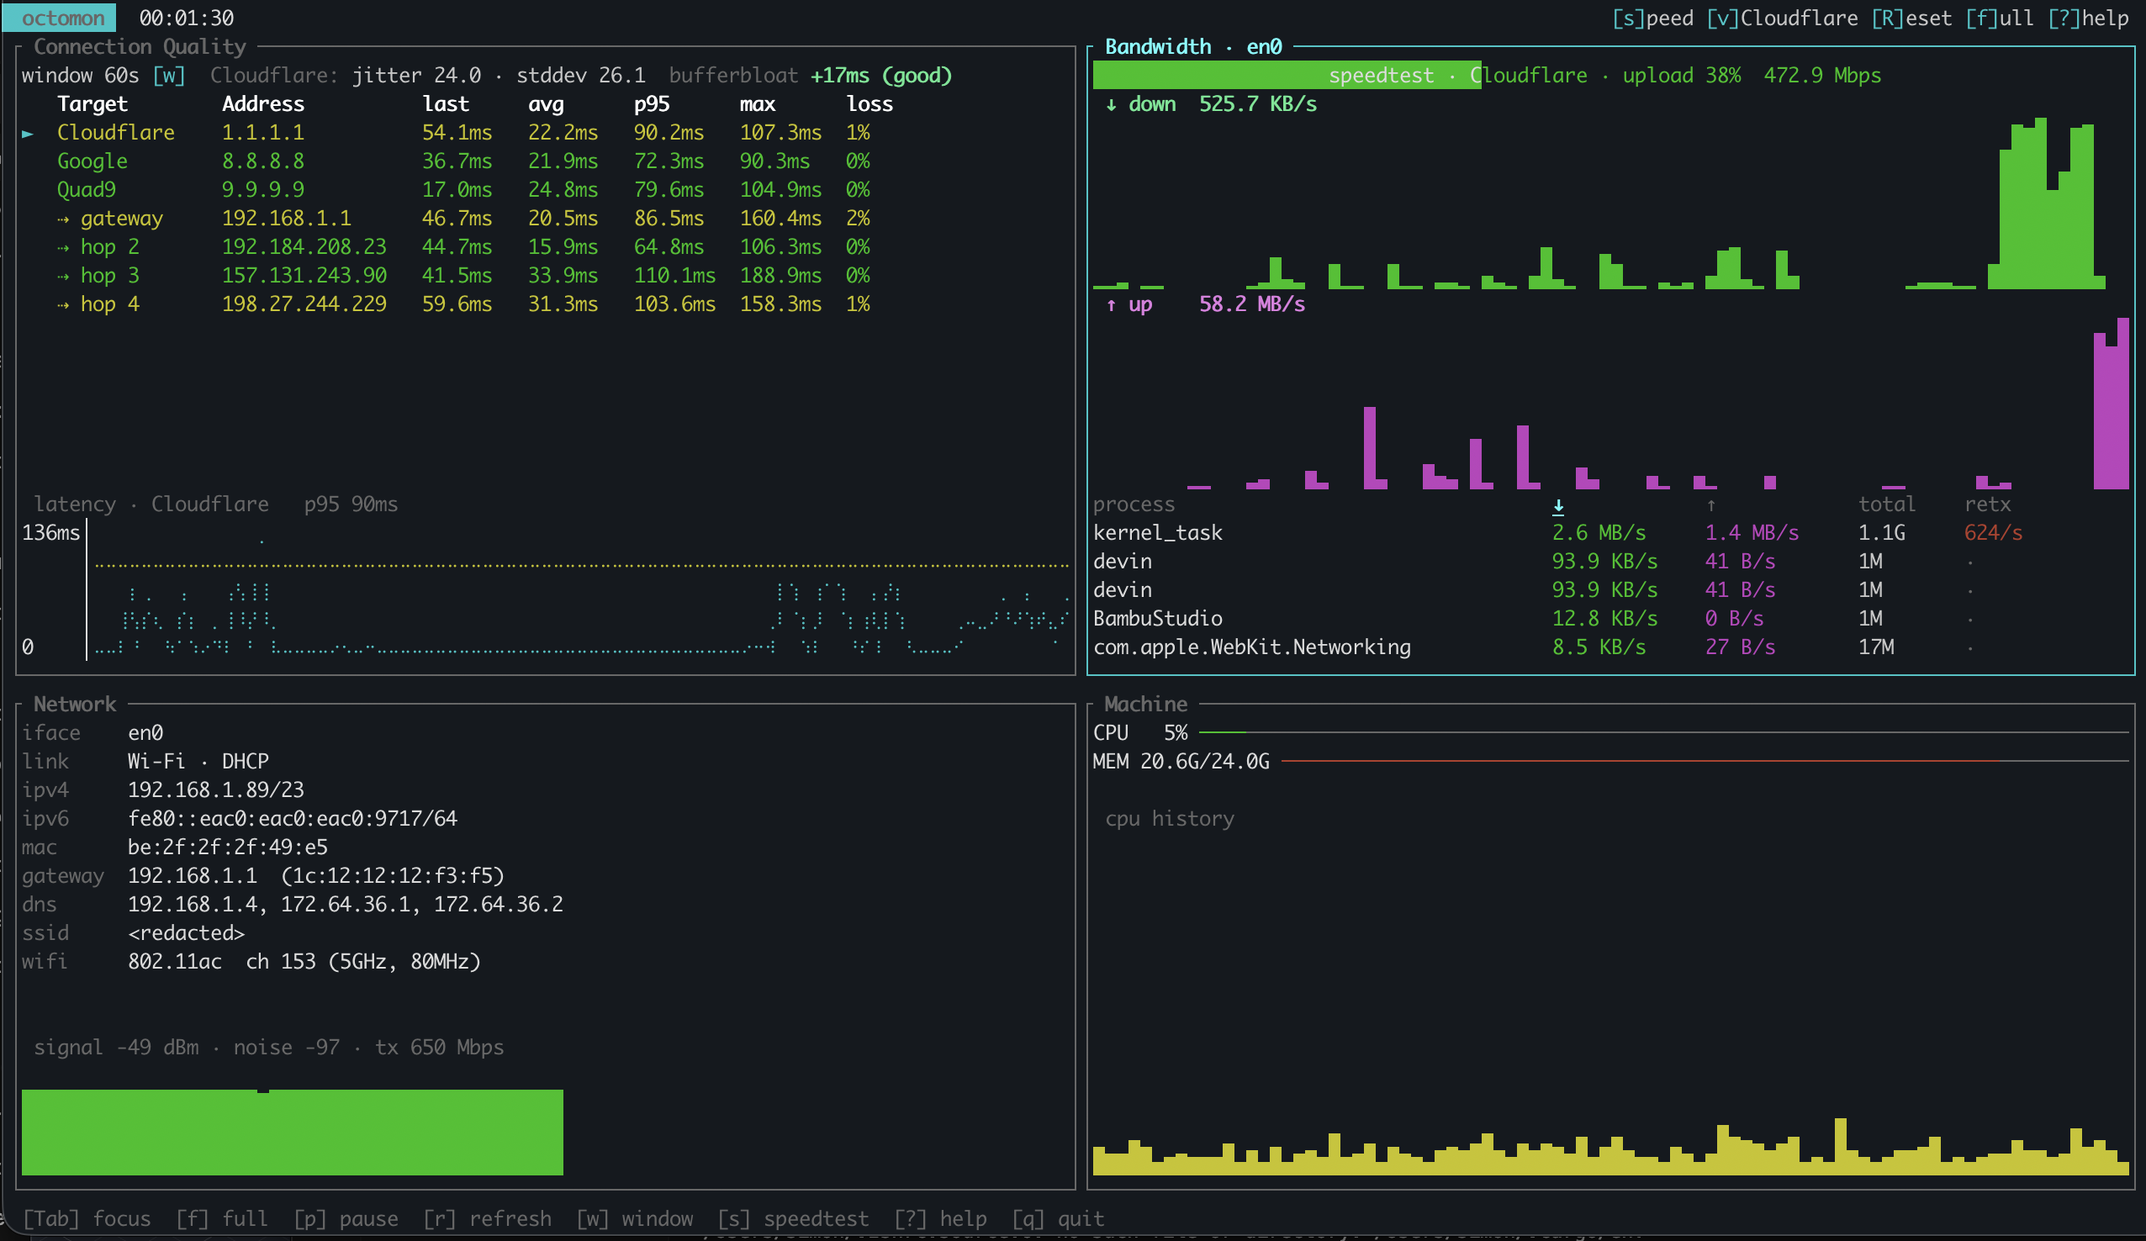
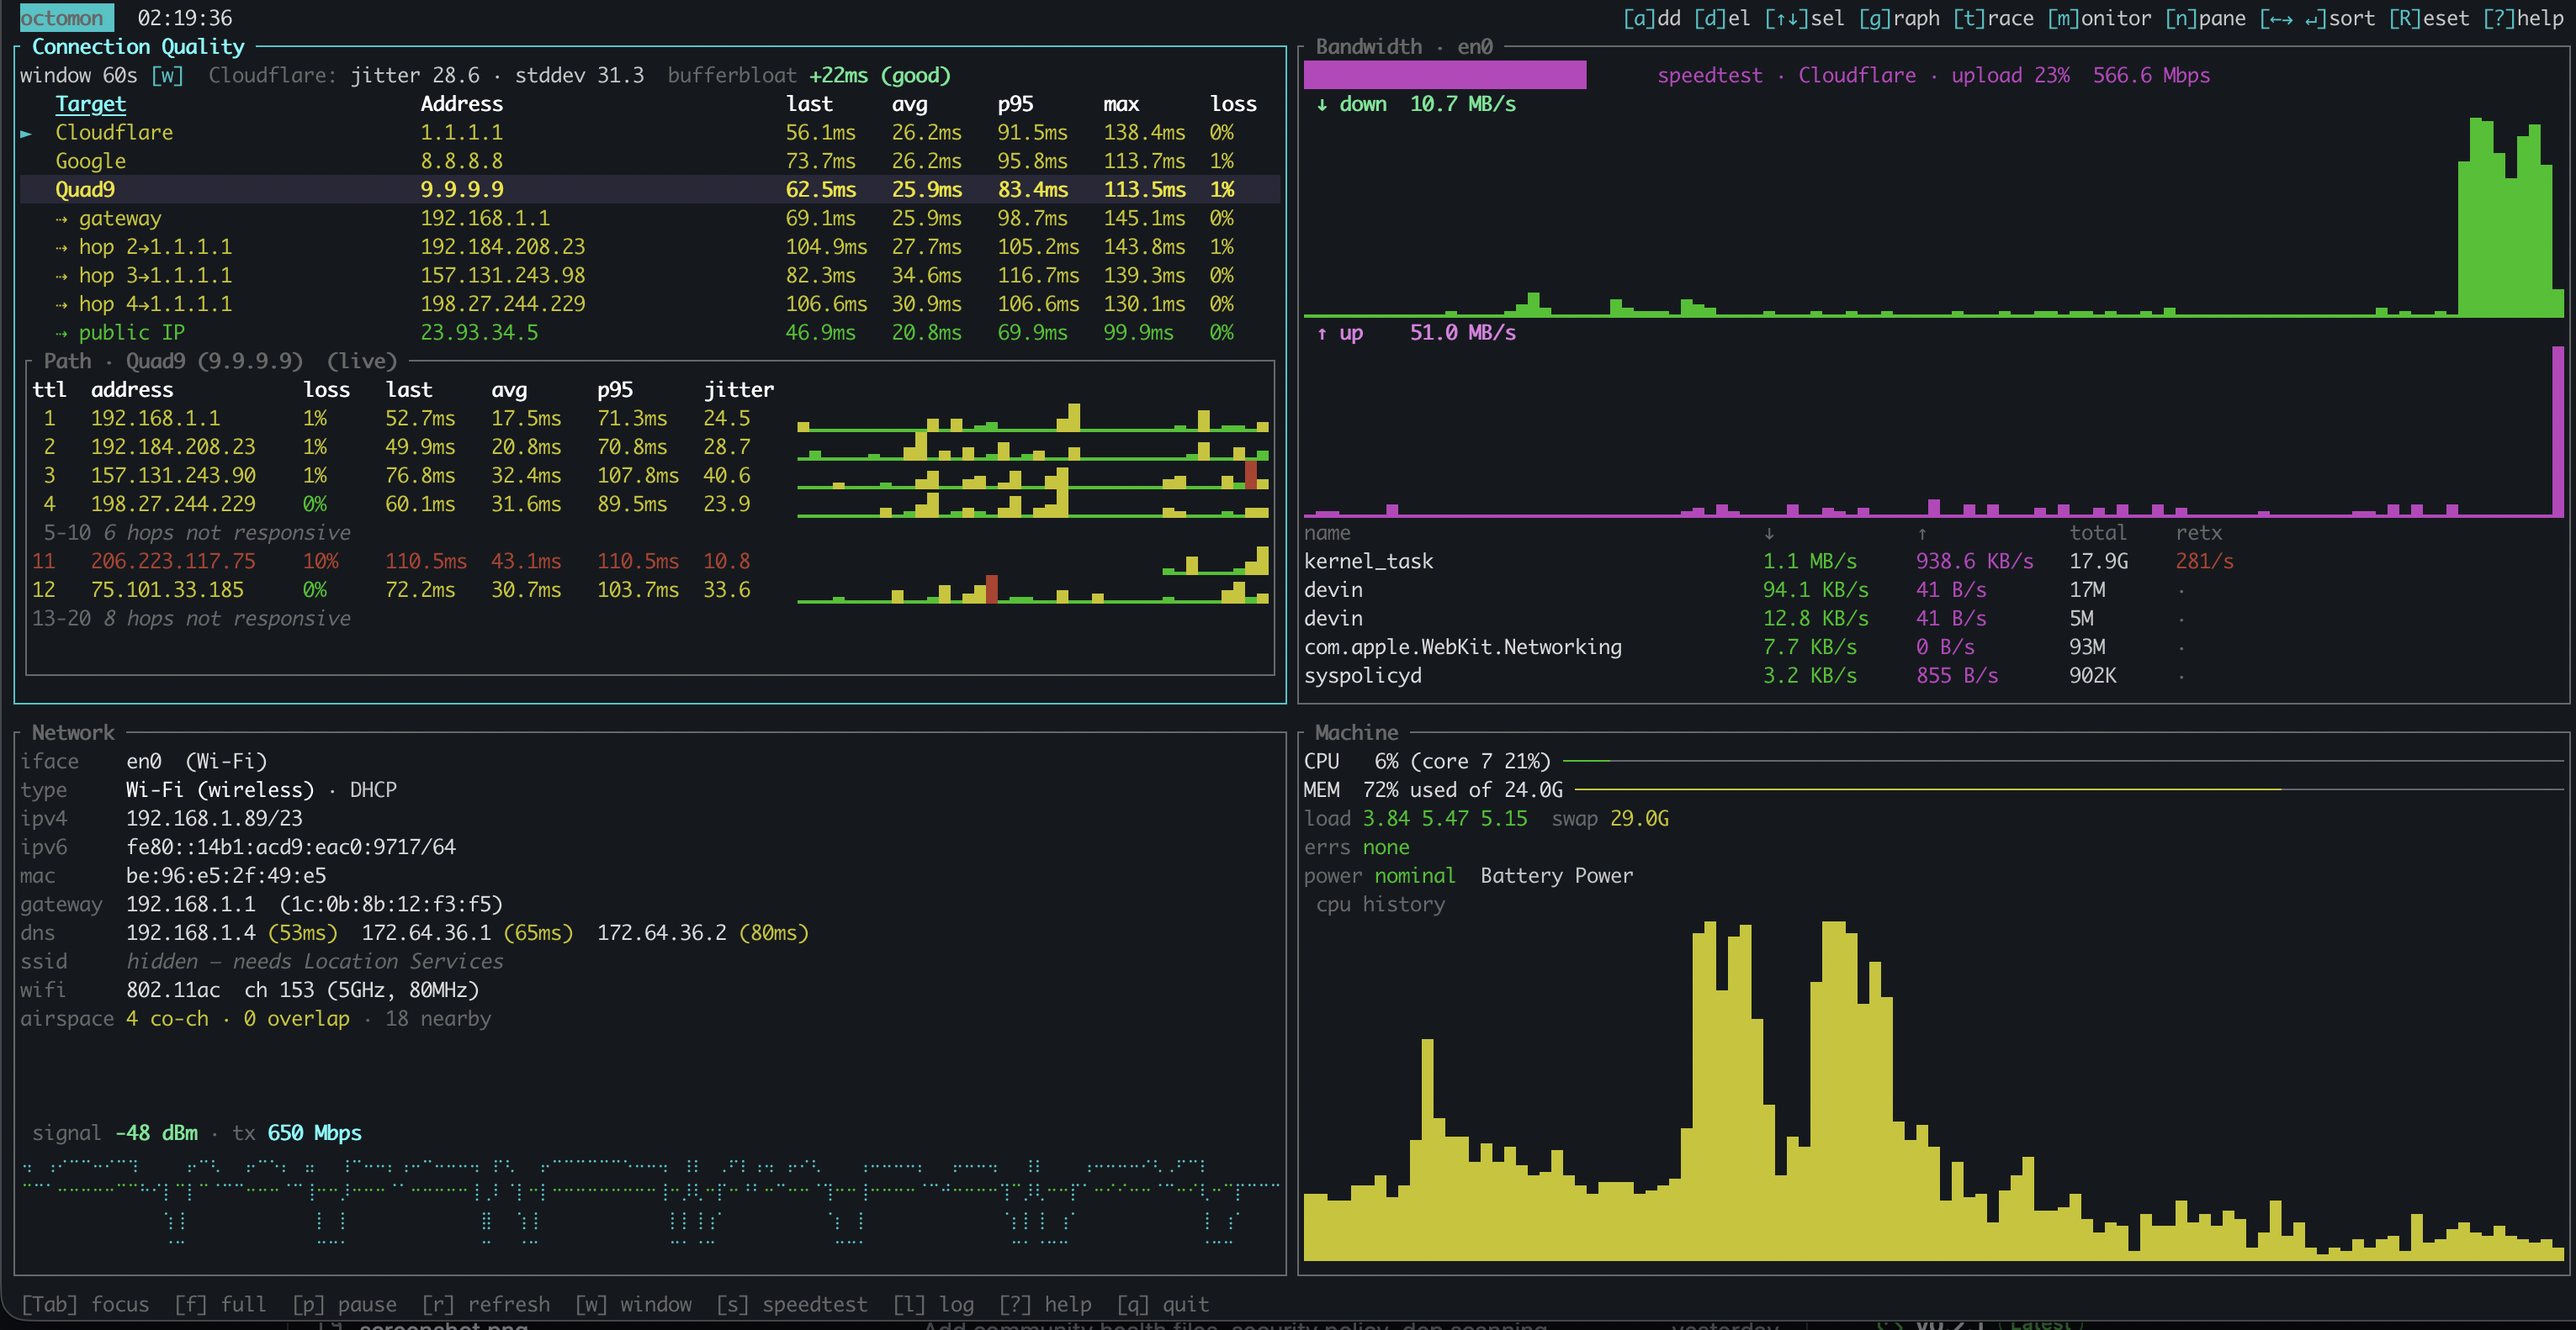
Fix Linux test and lint for the per-socket sampling contract
parse_ss now returns one sample per socket rather than aggregating per process,
so the old test's expectation of two entries for three sockets was asserting
the previous design. Rewritten to check socket identity, and to pin that ss
omits retrans: entirely when nothing has been retransmitted.

Changed region(s): [[0.0, 0.0, 1.0, 1.0], [0.2786, 0.2805, 0.3096, 0.3117]]

diff --git a/src/platform/mod.rs b/src/platform/mod.rs
@@ -356,7 +356,6 @@ mod macos {
 mod linux {
     use super::{ProcSample, WifiSignal};
     use crate::app::{Neighbour, WifiInfo};
-    use std::collections::HashMap;
 
     /// Live signal from `/proc/net/wireless`, which the kernel exposes to any
     /// user — no `iw`, no netlink, no privilege. Column 3 is the signal level in
@@ -727,31 +726,46 @@ mod linux {
             assert_eq!((n[2].channel, n[2].band_ghz), (161, 5));
         }
 
+        /// One sample per *socket*, not per process: `ss` lists only open
+        /// sockets, so a process total falls when a connection closes, and the
+        /// drop would cancel out real traffic. The collector sums the deltas.
         #[test]
-        fn ss_output_is_attributed_per_process() {
-            // Two sockets for one process, one for another.
+        fn ss_output_is_one_sample_per_socket() {
             let text = "\
-ESTAB 0 0 10.0.0.2:443 1.1.1.1:443 users:((\"firefox\",pid=100,fd=64))
+ESTAB 0 0 10.0.0.2:443 1.1.1.1:443 users:((\"firefox\",pid=100,fd=64)) ino:111 sk:1
 \t cubic wscale:7,7 rtt:12.5/1.0 bytes_sent:1000 bytes_received:5000 retrans:0/3
-ESTAB 0 0 10.0.0.2:80 2.2.2.2:80 users:((\"firefox\",pid=100,fd=65))
+ESTAB 0 0 10.0.0.2:80 2.2.2.2:80 users:((\"firefox\",pid=100,fd=65)) ino:222 sk:2
 \t cubic rtt:9/1 bytes_sent:500 bytes_received:2500 retrans:0/1
-ESTAB 0 0 10.0.0.2:22 3.3.3.3:22 users:((\"ssh\",pid=200,fd=3))
+ESTAB 0 0 10.0.0.2:22 3.3.3.3:22 users:((\"ssh\",pid=200,fd=3)) ino:333 sk:3
 \t cubic rtt:30/2 bytes_sent:99 bytes_received:77
 ";
             let mut s = parse_ss(text);
-            s.sort_by_key(|p| p.pid);
-            assert_eq!(s.len(), 2);
+            s.sort_by_key(|p| p.key);
+            assert_eq!(s.len(), 3, "three sockets, three counters");
 
-            // Both of firefox's sockets fold into one process entry.
-            assert_eq!(s[0].pid, 100);
-            assert_eq!(s[0].name, "firefox");
-            assert_eq!(s[0].bytes_out, 1500);
-            assert_eq!(s[0].bytes_in, 7500);
-            assert_eq!(s[0].retx, 4);
+            // Firefox's two sockets stay separate, each with its own identity.
+            assert_eq!(
+                (s[0].key, s[0].pid, s[0].name.as_str()),
+                (111, 100, "firefox")
+            );
+            assert_eq!((s[0].bytes_out, s[0].bytes_in, s[0].retx), (1000, 5000, 3));
+            assert_eq!((s[1].key, s[1].pid), (222, 100));
+            assert_eq!((s[1].bytes_out, s[1].bytes_in, s[1].retx), (500, 2500, 1));
 
-            assert_eq!(s[1].pid, 200);
-            assert_eq!(s[1].name, "ssh");
-            assert_eq!(s[1].retx, 0);
+            assert_eq!((s[2].key, s[2].pid, s[2].name.as_str()), (333, 200, "ssh"));
+            assert_eq!(
+                s[2].retx, 0,
+                "ss omits retrans: entirely when there are none"
+            );
+        }
+
+        /// Without `-e` there is no inode; the pid keeps the sample usable.
+        #[test]
+        fn ss_without_inode_falls_back_to_the_pid() {
+            let text = "ESTAB 0 0 10.0.0.2:443 1.1.1.1:443 users:((\"curl\",pid=254,fd=4))\n\t cubic bytes_sent:10 bytes_received:20\n";
+            let s = parse_ss(text);
+            assert_eq!(s.len(), 1);
+            assert_eq!(s[0].key, 254);
         }
 
         /// Verbatim `ss -tinpH` output from iproute2, so the parser is pinned to
@@ -777,6 +791,10 @@ ESTAB 0 0 10.0.0.2:22 3.3.3.3:22 users:((\"ssh\",pid=200,fd=3))
             // bytes_acked sits right next to bytes_sent and must not be read.
             assert_eq!(s[0].bytes_in, 112531);
             assert_eq!(s[0].retx, 0);
+            assert_eq!(
+                s[0].key, 254,
+                "no ino: in this capture, so it keys on the pid"
+            );
         }
 
         #[test]
